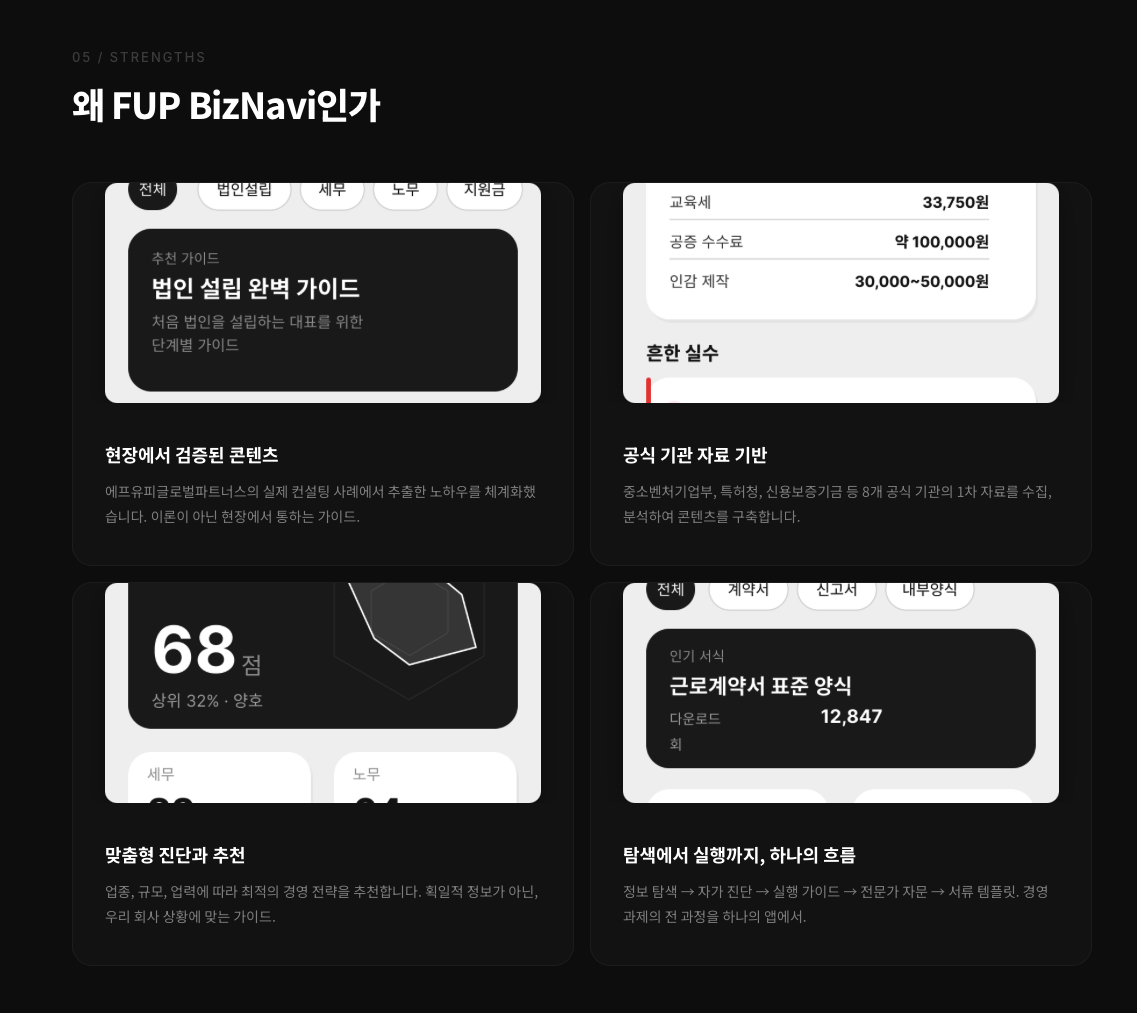
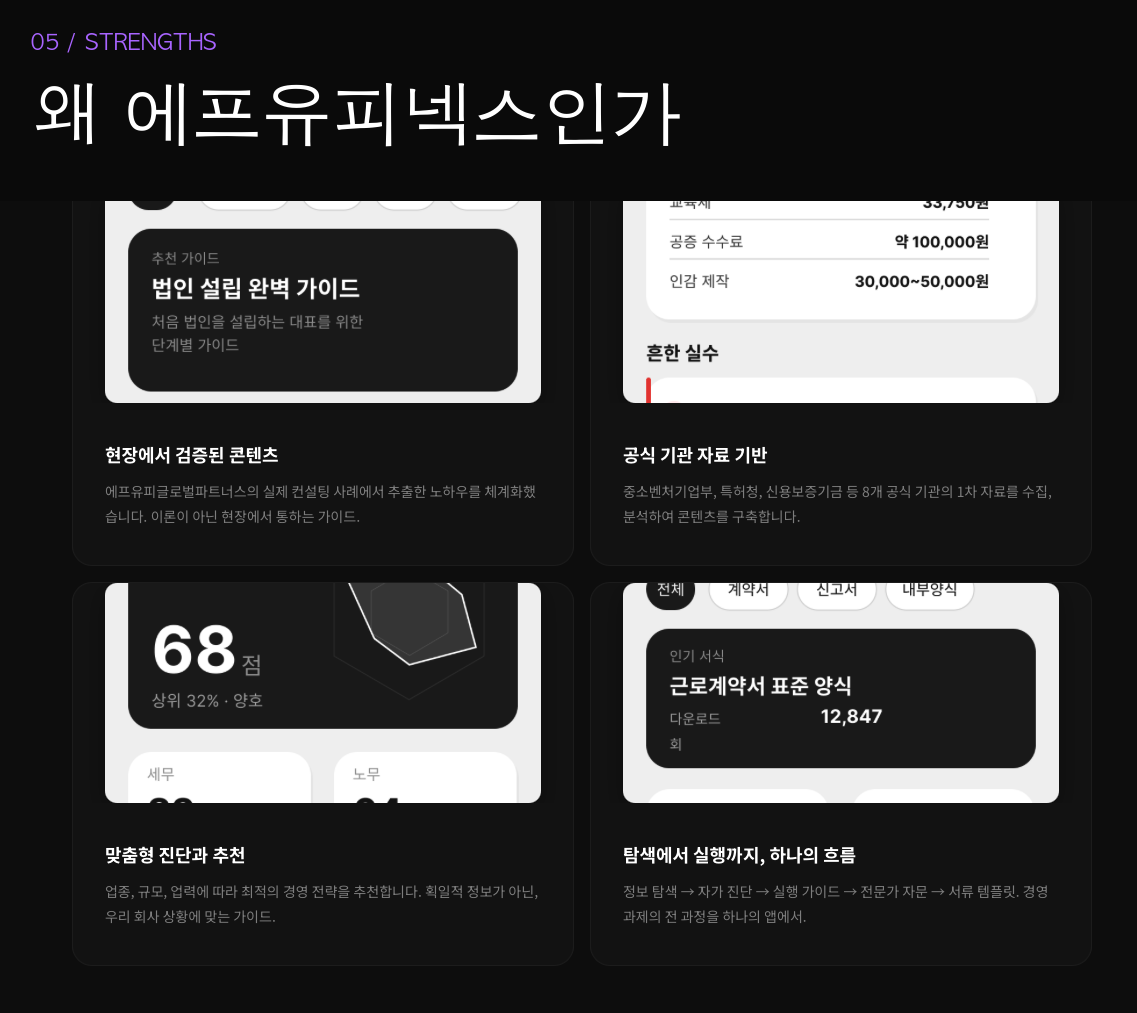
fupnex: replace BizNavi with FUPNEX in image, strings, and preview URL
- preview-page.png: overlay header text "왜 FUP BizNavi인가" replaced
  with "왜 에프유피넥스인가" via ImageMagick
- HTML comment + browser frame URL updated to FUPNEX naming
- BIZNAVI trademark (11건) references preserved as registered assets
- Drop incorrectly mapped strengths-cards.png (code editor capture)
  and remove the dependent fn-str-preview block

Changed region(s): [[0.0308, 0.0306, 0.6157, 0.153], [0.5541, 0.1836, 0.9543, 0.2142], [0.0923, 0.1836, 0.4925, 0.2142]]

diff --git a/pages/fupnex.html b/pages/fupnex.html
@@ -1,7 +1,7 @@
 <!--
   ============================================
   [에프유피넥스 랜딩페이지]
-  올인원 경영 솔루션 플랫폼 (FUP BizNavi)
+  올인원 경영 솔루션 플랫폼 (에프유피넥스 · FUPNEX)
   ============================================
 -->
 
@@ -231,7 +231,7 @@ img{display:block;max-width:100%}
     <div class="fn-preview-frame reveal">
       <div class="fn-preview-bar">
         <span></span><span></span><span></span>
-        <span class="fn-preview-bar-url">fupglobalpartners.com/FUP_BizNavi</span>
+        <span class="fn-preview-bar-url">fupglobalpartners.com/fupnex</span>
       </div>
       <div class="fn-preview-img-wrap">
         <img src="https://cdn.jsdelivr.net/gh/0sikH/fup-services-assets@main/pages/assets/fupnex/preview-page.png" alt="에프유피넥스 앱 전체 페이지 미리보기" loading="lazy"/>
@@ -348,16 +348,6 @@ img{display:block;max-width:100%}
 .fn-str-title{font-size:22px;font-weight:700;color:#fff;margin-bottom:12px;letter-spacing:-0.3px;position:relative;z-index:1}
 .fn-str-desc{font-size:15px;line-height:1.75;color:rgba(255,255,255,0.65);position:relative;z-index:1}
 .fn-str-desc strong{color:var(--accent);font-weight:600}
-.fn-str-preview{margin-top:80px;display:grid;grid-template-columns:1fr 1.1fr;gap:60px;align-items:center;background:linear-gradient(135deg,rgba(168,100,255,0.04),transparent);border:1px solid var(--border);border-radius:24px;padding:60px}
-.fn-str-preview-title{font-size:clamp(24px,3vw,32px);font-weight:700;letter-spacing:-0.5px;margin:14px 0 18px;line-height:1.3}
-.fn-str-preview-desc{font-size:15.5px;line-height:1.75;color:rgba(255,255,255,0.7);margin-bottom:26px}
-.fn-str-preview-list{list-style:none;padding:0;margin:0}
-.fn-str-preview-list li{display:flex;align-items:flex-start;gap:12px;padding:12px 0;border-top:1px solid var(--border);font-size:14.5px;color:rgba(255,255,255,0.85)}
-.fn-str-preview-list li:last-child{border-bottom:1px solid var(--border)}
-.fn-str-preview-list li::before{content:'';flex-shrink:0;width:6px;height:6px;border-radius:50%;background:var(--accent);margin-top:9px;box-shadow:0 0 10px rgba(168,100,255,0.6)}
-.fn-str-preview-img{position:relative}
-.fn-str-preview-img img{width:100%;border-radius:14px;border:1px solid var(--border);box-shadow:0 20px 60px rgba(0,0,0,0.5)}
-@media(max-width:900px){.fn-str-preview{grid-template-columns:1fr;gap:36px;padding:36px}}
 @media(max-width:768px){.fn-str-grid{grid-template-columns:1fr;gap:14px}.fn-str{padding:90px 24px}.fn-str-card{padding:32px 24px}}
 </style>
 <section class="fn-str">
@@ -391,23 +381,6 @@ img{display:block;max-width:100%}
         <div class="fn-str-icon"><svg viewBox="0 0 24 24" fill="none" stroke="currentColor" stroke-width="2"><polyline points="22 12 18 12 15 21 9 3 6 12 2 12"/></svg></div>
         <h3 class="fn-str-title">탐색에서 실행까지, 하나의 흐름</h3>
         <p class="fn-str-desc">정보 탐색 → 자가 진단 → 실행 가이드 → 전문가 자문 → <strong>서류 템플릿</strong>까지, 경영 과제의 전 과정을 한 앱으로.</p>
-      </div>
-    </div>
-
-    <!-- 실제 모바일 UI 미리보기 -->
-    <div class="fn-str-preview reveal">
-      <div class="fn-str-preview-text">
-        <span class="sec-label">Mobile Preview</span>
-        <h3 class="fn-str-preview-title">강점을 카드로 확인하는 직관적 UI</h3>
-        <p class="fn-str-preview-desc">68점·상위 32% 양호 같은 진단 등급과, 12,847건의 표준 양식 라이브러리, 그리고 인증 카테고리별 가이드를 한 화면에서 빠르게 탐색할 수 있도록 설계했습니다.</p>
-        <ul class="fn-str-preview-list">
-          <li><span>레이더 차트 기반 종합 진단</span></li>
-          <li><span>카테고리별 양식·신청서 라이브러리</span></li>
-          <li><span>실제 컨설팅 사례 기반 가이드</span></li>
-        </ul>
-      </div>
-      <div class="fn-str-preview-img">
-        <img src="https://cdn.jsdelivr.net/gh/0sikH/fup-services-assets@main/pages/assets/fupnex/strengths-cards.png" alt="에프유피넥스 강점 카드 모바일 UI 미리보기" loading="lazy"/>
       </div>
     </div>
   </div>
